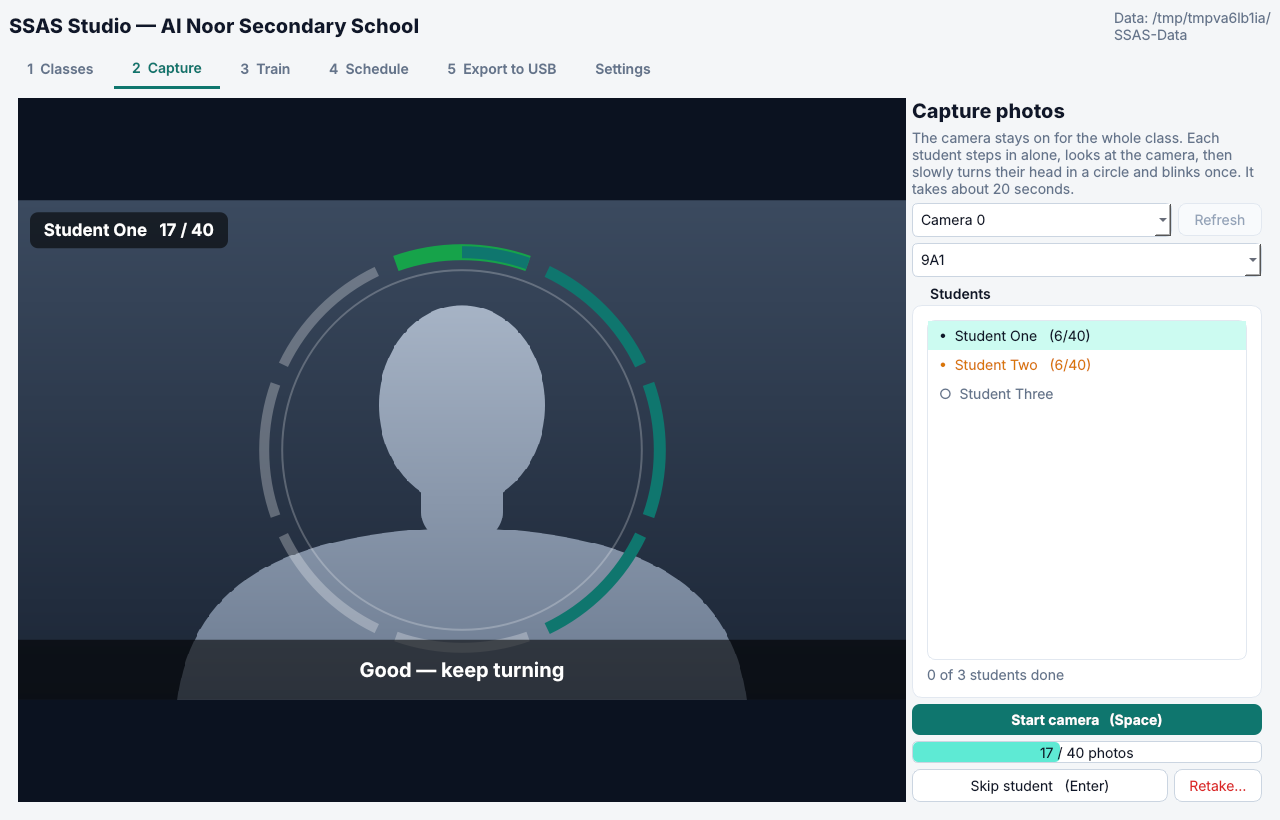
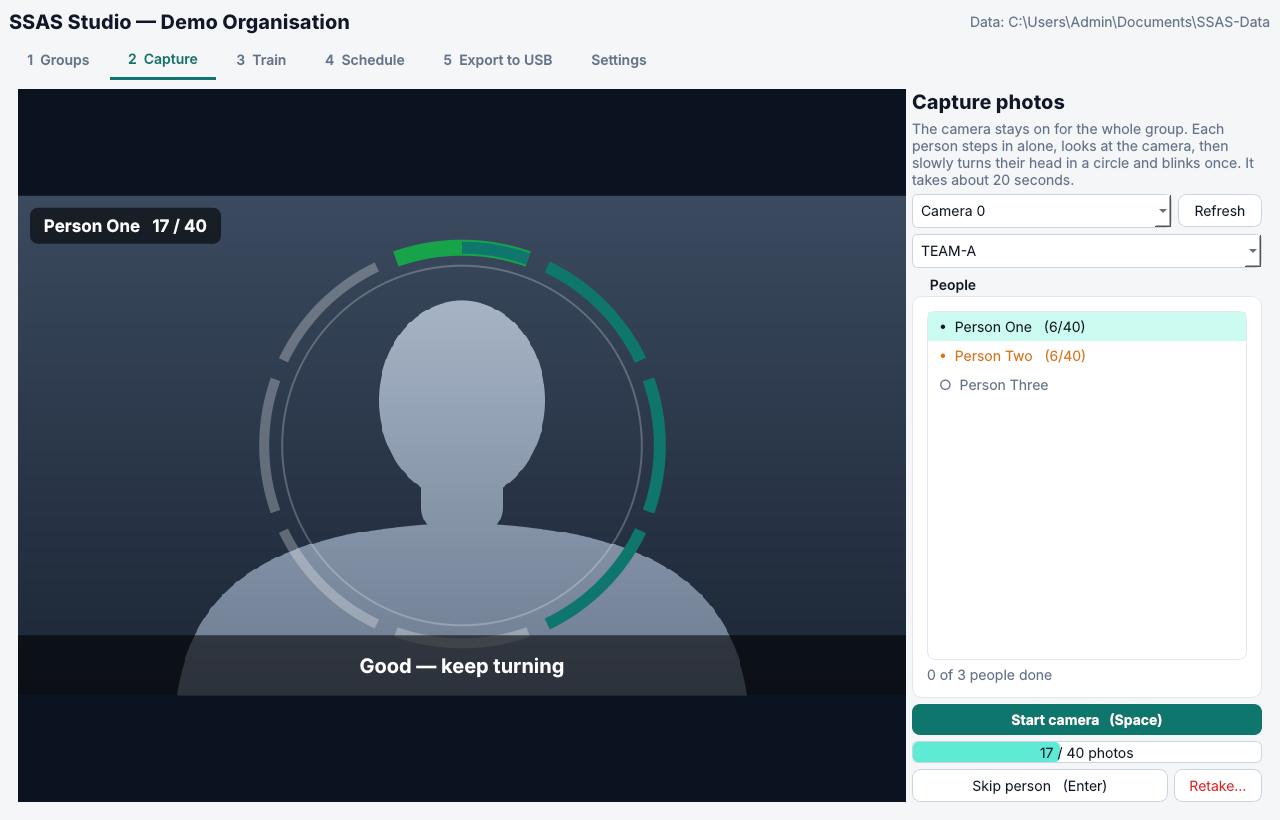
Docs: new Studio screenshots; keep the data path on one line
The screenshots now show the 0.2 words (Groups, People, Sessions,
shared rooms) with a neutral demo organisation and a silhouette
instead of a real face, and are linked from the Studio guide and
HOW-IT-WORKS. Making them showed that a Windows data path wrapped over
three lines in the header; it now stays on one line.

Claude-Session: https://claude.ai/code/session_01WLzTdWpfkHzGbBNJVWKuza

diff --git a/studio/ssas_studio/ui/main_window.py b/studio/ssas_studio/ui/main_window.py
@@ -35,6 +35,7 @@ class MainWindow(QMainWindow):
         head.addWidget(self.org_label)
         head.addStretch(1)
         self.data_label = muted()
+        self.data_label.setWordWrap(False)  # a Windows path must stay on one line
         head.addWidget(self.data_label)
         lay.addLayout(head)
 

diff --git a/docs/studio-guide.md b/docs/studio-guide.md
@@ -40,6 +40,8 @@
 ## الخطوات بالترتيب (نفس ترتيب التابات)
 
 ### 1. Groups
+![Groups tab](screenshots/studio/1-groups.png)
+
 - **Add group:**
   - **Code:** كود قصير، زي `9A1` أو `TEAM-A` أو `NIGHT-2`. ده اسم فولدر المجموعة، ومش بيتغير بعد كده.
   - **Name:** اختياري، زي "Grade 9 Advanced 1" أو "Sales team".
@@ -49,6 +51,8 @@
   - أو من **Excel/CSV** (الأسماء في أول عمود).
 
 ### 2. Capture
+![Capture tab](screenshots/studio/2-capture.png)
+
 الكاميرا بتفضل شغالة **لمجموعة كاملة**، والناس بيعدّوا واحد ورا التاني، من غير ماوس.
 
 **التجهيز مرة واحدة:**
@@ -72,6 +76,8 @@
 - **للتشديد ضد الغش بصورة أو فيديو:** فعّل **Strict capture** من Settings. الدايرة بتطلب الأجزاء بترتيب عشوائي.
 
 ### 3. Train
+![Train tab](screenshots/studio/3-train.png)
+
 - أسماء المجموعة بتظهر في الجدول **حتى قبل التدريب**، وجنب كل اسم عدد صوره.
 - **لازم شخصين على الأقل** يكون عندهم صور.
 - اضغط **Train this group** أو **Train all groups**.
@@ -88,6 +94,8 @@
 **ملحوظة:** ناس المجموعات التانية بيتستخدموا كـ "غرباء". علشان كده: صوّر كل المجموعات الأول، وبعدين **Train all groups** في الآخر.
 
 ### 4. Schedule
+![Schedule tab](screenshots/studio/4-schedule.png)
+
 - **Working days:** أيام الشغل.
 - **Session times:** المواعيد (نفسها كل يوم).
   - كل صف نوعه:
@@ -103,6 +111,8 @@
 - **Copy to all groups:** بينسخ الجدول لكل المجموعات.
 
 ### 5. Export to USB
+![Export tab](screenshots/studio/5-export.png)
+
 1. اختار الفلاشة، وعلّم الشاشات، واضغط **Export**.
    - **محتاج الأول PIN للشاشات** (6 أرقام أو أكتر) من Settings. لو مش موجود، البرنامج هيقولك.
 2. هيتعمل فولدر **SSAS-USB** على الفلاشة، وفيه:

diff --git a/docs/HOW-IT-WORKS.md b/docs/HOW-IT-WORKS.md
@@ -108,6 +108,14 @@
 
 **خلاص.** من النهارده الشاشات بتاخد الحضور لوحدها.
 
+| Groups | Capture | Train |
+|---|---|---|
+| ![](screenshots/studio/1-groups.png) | ![](screenshots/studio/2-capture.png) | ![](screenshots/studio/3-train.png) |
+
+| Schedule | Export to USB |
+|---|---|
+| ![](screenshots/studio/4-schedule.png) | ![](screenshots/studio/5-export.png) |
+
 ---
 
 ## 5. Session واحدة، دقيقة بدقيقة
